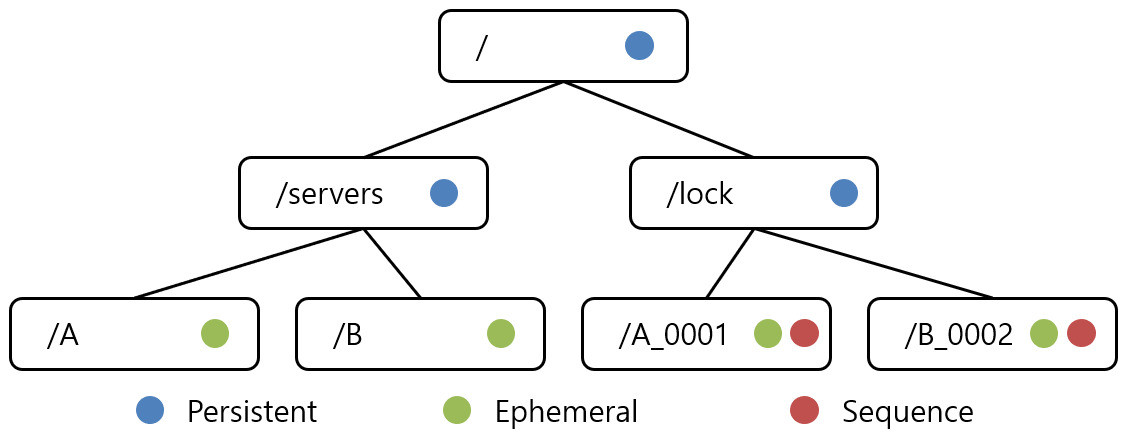
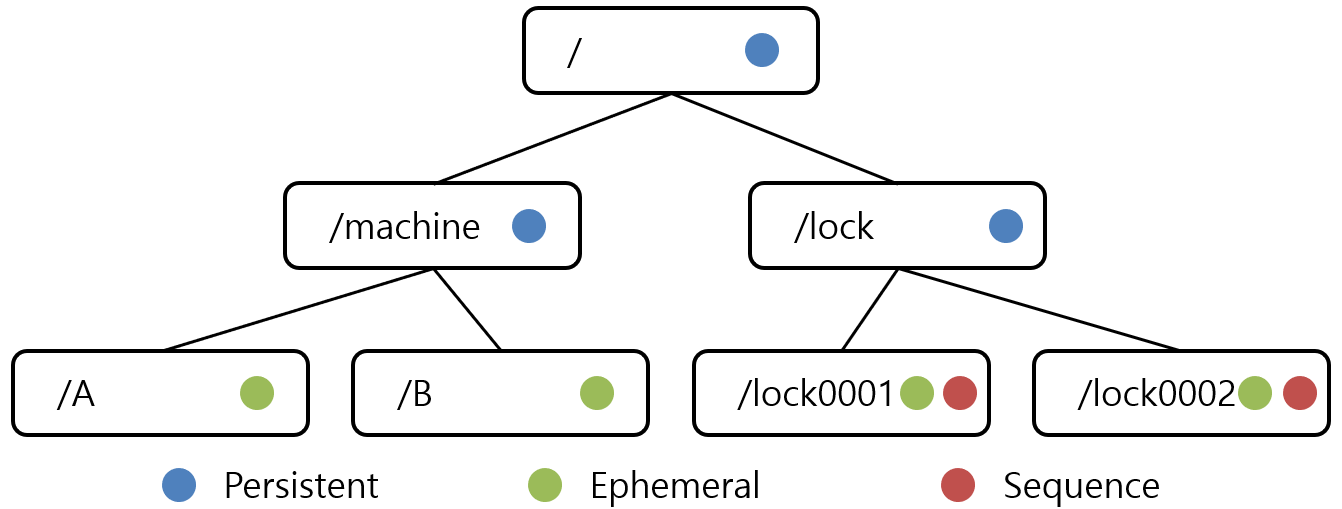
Update ZooKeeper

diff --git a/_docs/theory_analysis/ZooKeeper.md b/_docs/theory_analysis/ZooKeeper.md
@@ -29,13 +29,38 @@ Client는 Server에게 주기적으로 PING을 전송하여 Client의 동작을 
 
 ZooKeeper는 **ZNode** 단위로 Data 저장 및 계층을 생성한다. 위의 그림은 ZNode로 구성된 Data Model을 나타내고 있다. File System처럼 Root를 기준으로 Tree 형태로 ZNode가 구성된다. 각 ZNode는 Data(byte[])와 Child Node를 가질 수 있다.
 
-ZNode는 **Persistent** Node와 **Ephemeral** Node로 구분된다. Persistent Node는 ZooKeeper Client가 
+ZNode는 **Persistent Node**와 **Ephemeral Node**로 구분된다. Persistent Node는 Client가 종료되더라도 유지되는 Node이다. Ephemeral Node는 Client가 종료되면 사라지는 Node이고, Child를 가질 수 없다. 또한 ZNode는 **Sequence Node**와 일반 Node로 구분 할 수 있다. Sequence Node는 생성시 Node이름 뒤에 숫자가 붙으며, 숫자는 중복되지 않는다. Persistent Node와 Ephemeral Node 모두 Sequence Node가 될 수 있다.
+
+Server의 Atomic Broadcast를 통해서 ZNode 생성/변경/삭제 동작은 Client 입장에서는 Sequence Consistency, Atomicity 특징을 보인다.
 
 #### 1.3. Watcher
 
 ![]({{site.baseurl}}/images/theory_analysis/ZooKeeper/ZooKeeper_Watcher.PNG)
 
+Watcher는 ZNode의 변경을 Client에게 먼져 알려주는 역활을 수행한다. Client는 먼져 특정 ZNode에 대해 Watcher를 등록한다. 그 후 해당 ZNode의 Data가 변경되거나, Child Node가 생성/삭제 될 경우 Client에게 변경되었다는 Event를 Client에게 전달한다.
+
 #### 1.4. Usage Example
+
+ZNode와 Watcher를 이용하여 분산 시스템 환경에서 필요한 다양한 기능을 구현 할 수 있다. 첫번째 그림을 통해서 ZooKeeper를 이용한 간단한 사용 예제를 설명한다.
+
+##### 1.4.1. Machine 상태 확인
+
+Ephemeral Node는 Ephemeral Node를 생성한 Client가 Server Cluster와 접속이 끊기면 사라지는 Node이다. 따라서 Ephemeral Node를 이용하여 각 Machine 상태를 쉽게 파악 할 수 있다.
+
+* 각 Machine에 Client를 설치하고 Server Cluster에 연결한다.
+* 연결된 Client는 첫번째 그림의 machine Node처럼 특정 Node아래 의 고유 ID를 이름으로하는 Ephemeral Node를 생성한다. 그 후 machine Node를 감지하기 위한 Watcher를 등록한다.
+* Client의 연결이 종료되어 Ephemeral Node가 사라지면 machine Node Watcher를 등록한 모든 Client에게 Event를 전달한다.
+* Event를 받은 Client는 다른 Client의 종료 정보를 통해 Machine의 종료 상태를 파악 할 수 있다.
+
+##### 1.4.2. 분산 Lock
+
+Sequence Node의 숫자는 중복되어 생성되지 않는 특징을 이용하여 분산 Lock을 구현 할 수 있다.
+
+* 각 Node에 Client를 설치한다.
+* Lock을 얻으려는 Client는 Server Cluster에 연결한 뒤 첫번째 그림의 lock Node처럼 특정 Node아래 Ephemeral/Sequence Node를 생성하고 생성된 Sequence 번호를 확인한다. 그 후 lock Node를 감지하기 위한 Watcher를 등록한뒤 대기한다.
+* Watcher로 부터 Event가 오면 Client는 lock Node의 Child Node 중 Sequence 번호가 가장 작은 Node가 자신이 생성한 Sequence 번호와 일치 하는지 확인한다.
+* 번호가 일치하면 해당 Client는 Lock을 획득한 뒤 연산을 수행한다. 연산 수행이 완료되면 연결을 끊는다.
+* 연결이 끊기면 Ephemeral Node는 사라지기 때문에 lock Node Watcher는 다시 Event를 발생시켜 Client에게 전달한다.
 
 ### 2. 참조
 
